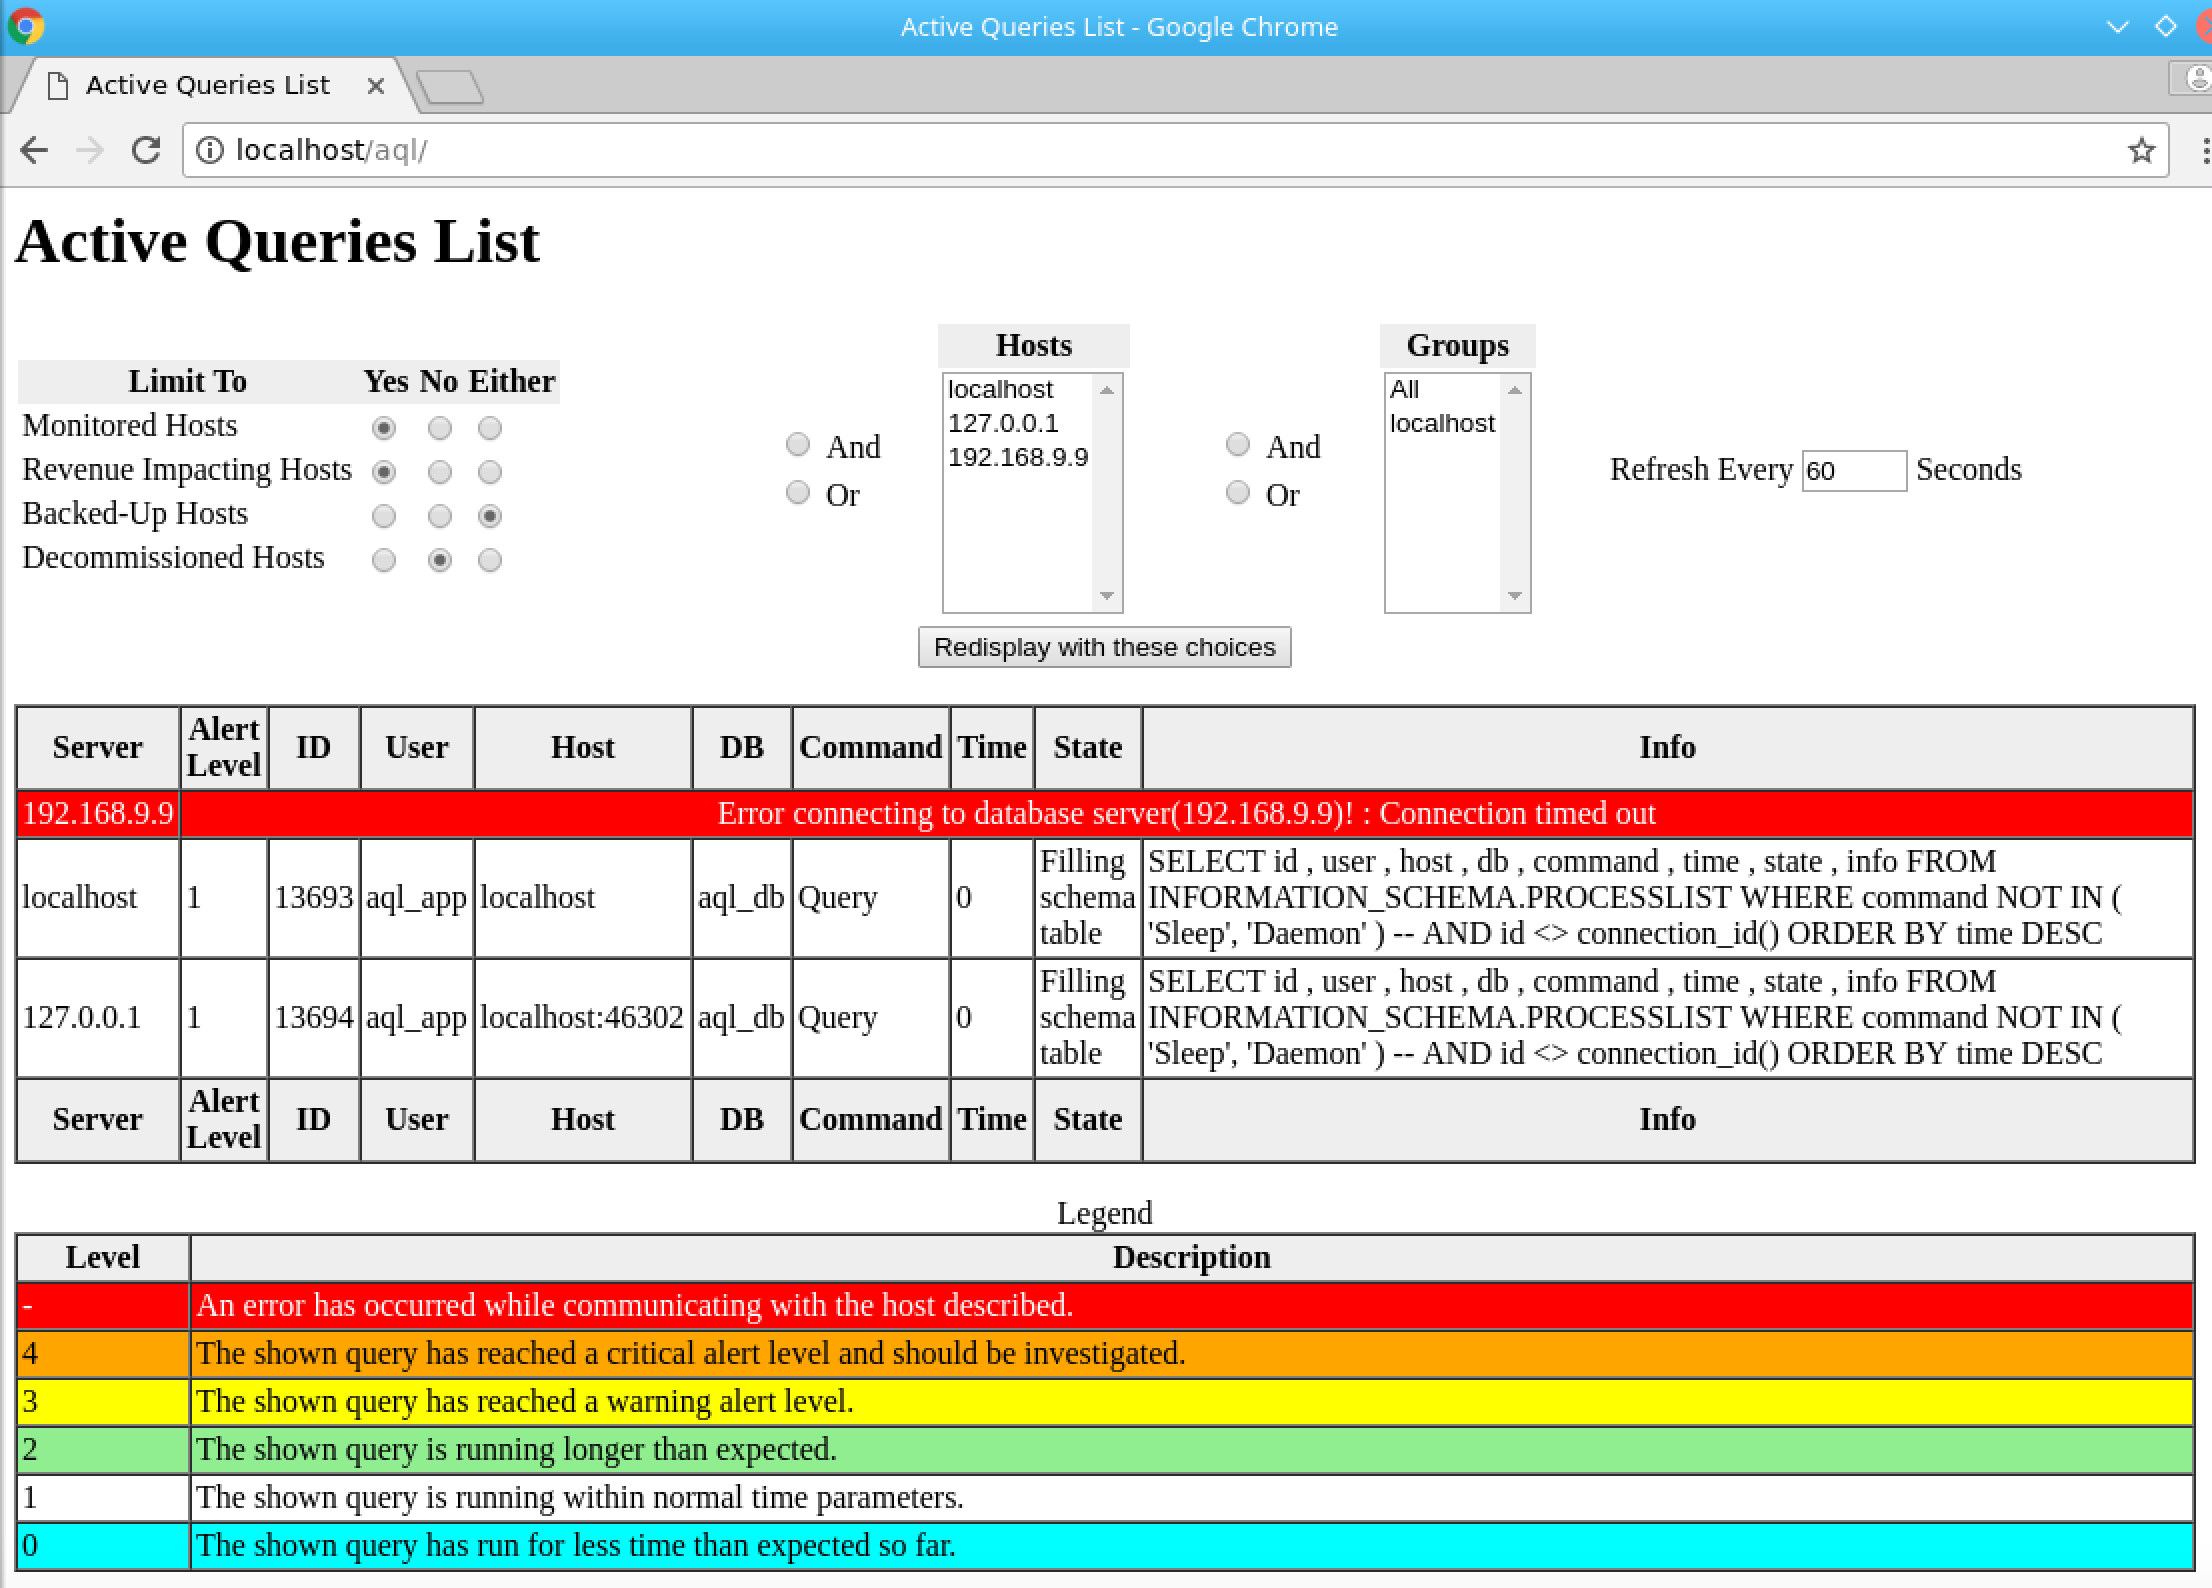
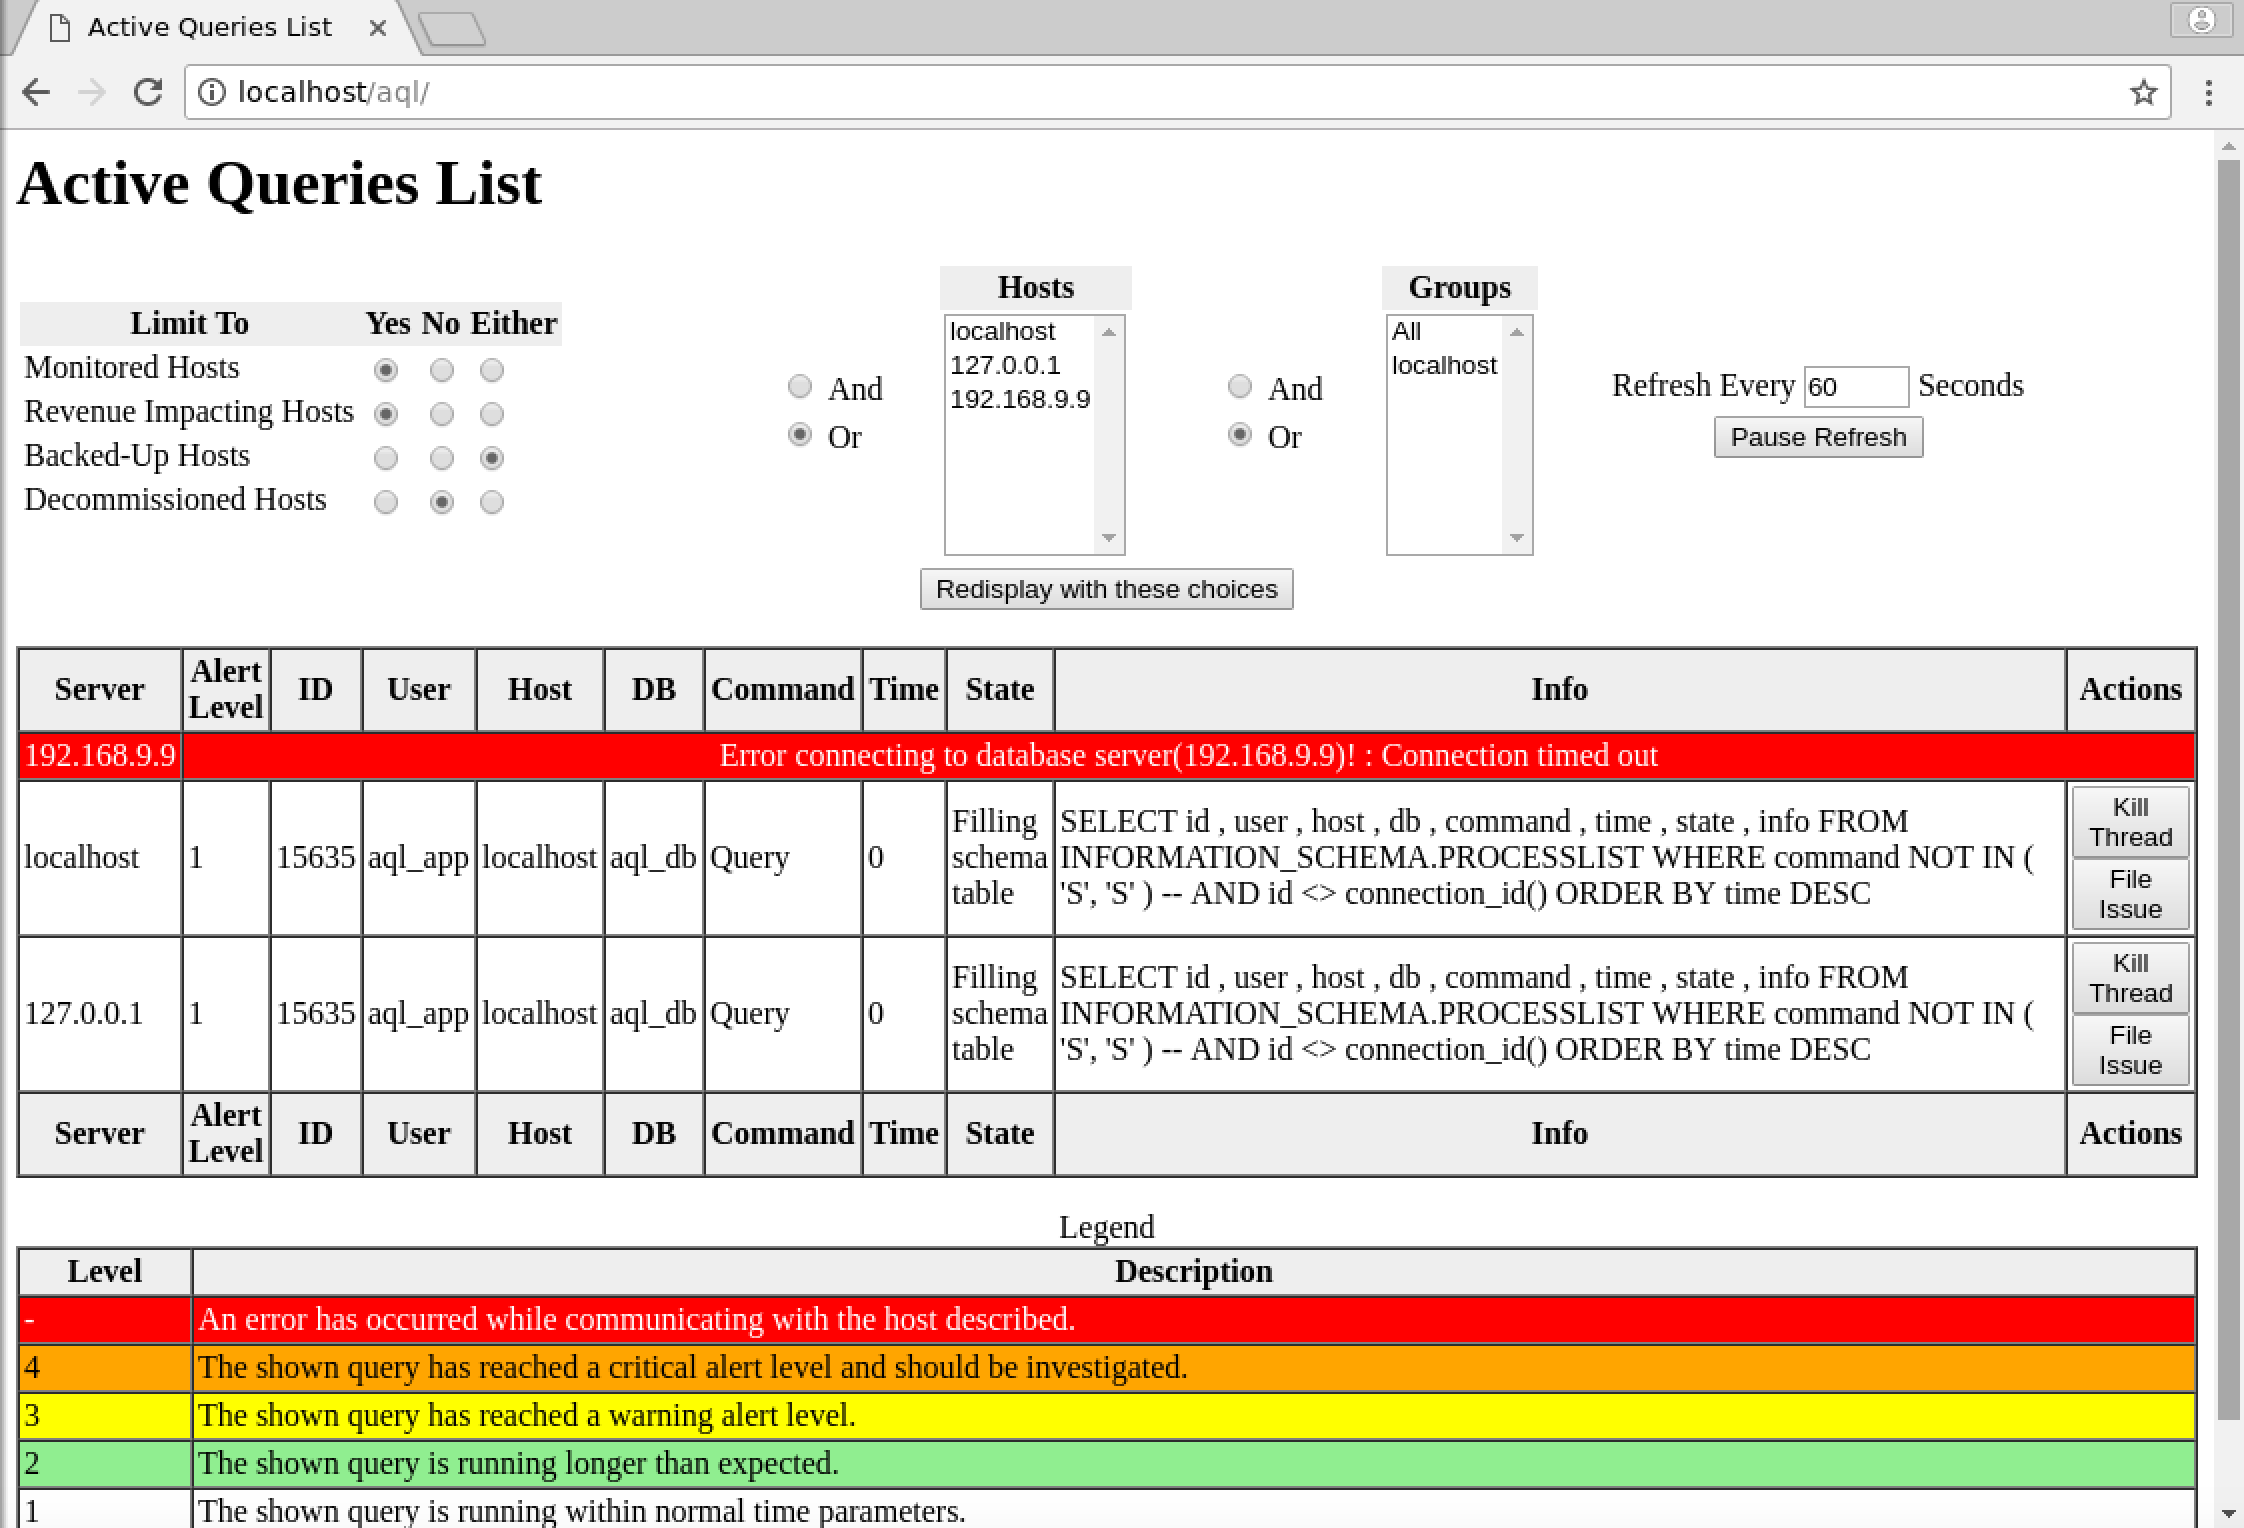
Intermediate check-in

diff --git a/Libs/Tools.php b/Libs/Tools.php
@@ -128,4 +128,99 @@ class Tools {
         }
         return date( 'Y-m-d H:i:s', $epochTime ) ;
     }
+
+    /**
+     *
+     * Return a time-like string of seconds, minutes:seconds or hours:minutes:se
+conds
+     *
+     * @param integer $in_seconds
+     *            @fixme Comparison to is_integer isn't working as expected.
+     */
+    public static function friendlyTime( $in_seconds ) {
+        if ( !isset( $in_seconds ) || ( is_integer( $in_seconds ) ) )
+            return $in_seconds ;
+        $secs = $in_seconds % 60 ;
+        if ( $in_seconds < 60 )
+            return "${secs}s" ;
+        $mins = ( $in_seconds / 60 ) % 60 ;
+        if ( $in_seconds < 3600 ) {
+            return sprintf( '%dm,%ds', $mins, $secs ) ;
+        }
+        $hrs = $in_seconds / 3600 ;
+        if ( $hrs < 24 ) {
+            return sprintf( '%dh,%dm,%ds', $hrs, $mins, $secs ) ;
+        }
+        else {
+            $days = $hrs / 24 ;
+            $hrs = $hrs % 24 ;
+            return sprintf( '%dd,%dh,%dm,%ds', $days, $hrs, $mins, $secs ) ;
+        }
+
+    } // END OF function friendlyTime( $in_seconds )
+
+    /**
+     *
+     * Change SQL constants (bare numbers and quoted strings) to a PII safe
+     * obscured string. Mimics functionality provided by mysqldumpslow but
+     * extends it by making it easier to figure out LIKE searches, treating
+     * all strings as a parameter to a LIKE clause.
+     *
+     * @param String $str
+     *            SQL Statement to be made safe
+     * @return String Obscured SQL statement
+     */
+    public static function makeQuotedStringPIISafe( $str ) {
+        $regexes = array (
+                        '/\b\d+\b/' => 'N',
+                        '/\b0x[0-9A-Fa-f]+\b/' => 'N',
+                        "/''/" => "'S'",
+                        '/""/' => '"S"',
+                        "/(\\\\')/" => '',
+                        '/(\\\\")/' => '',
+                        "/'[^%']+'/" => "'S'",
+                        '/"[^%"]+"/' => '"S"',
+                        "/'[%]+([^'%]+[%]+)+[^'%]+[%]+'/" => "'%S%S%'",
+                        "/'[%]+([^'%]+[%]+)+[^'%]+'/" => "'%S%S'",
+                        "/'([^'%]+[%]+)+[^'%]+[%]+'/" => "'S%S%'",
+                        "/'([^'%]+[%]+)+[^'%]+'/" => "'S%S'",
+                        "/'[%]+[^'%]+[%]+'/" => "'%S%'",
+                        "/'[%]+[^'%]+'/" => "'%S'",
+                        "/'[^'%]+[%]+'/" => "'S%'",
+                        "/'([^'%]+[%]+)+[^'%]+'/" => "'S%S'",
+                        '/"[^"%]+"/' => '"S"',
+                        '/"[%]+([^"%]+[%]+)+[^"%]+[%]+"/' => '"%S%S%"',
+                        '/"[%]+([^"%]+[%]+)+[^"%]+"/' => '"%S%S"',
+                        '/"([^"%]+[%]+)+[^"%]+[%]+"/' => '"S%S%"',
+                        '/"([^"%]+[%]+)+[^"%]+"/' => '"S%S"',
+                        '/"[%]+[^"[%]+]+[%]+"/' => '"%S%"',
+                        '/"[%]+[^"%]+"/' => '"%S"',
+                        '/"[^"%]+%"/' => '"S%"',
+                        '/"([^"%]+[%]+)+[^"%]+"/' => '"S%S"'
+        ) ;
+
+        $delimPattern = "/('[^']*'|\"[^\"]*\")/" ;
+        $result_array = preg_split( $delimPattern, $str, 0, PREG_SPLIT_DELIM_CAPTURE ) ;
+        $newStr = '' ;
+        while ( count( $result_array ) ) {
+            $currStr = array_shift( $result_array ) ;
+            $matchFound = 0 ;
+            foreach ( $regexes as $k => $v ) {
+                if ( !$matchFound ) {
+                    $oldStr = $currStr ;
+                    $currStr = preg_replace( $k, $v, $currStr, -1 ) ;
+                    if ( $currStr !== $oldStr ) {
+                        $matchFound = 1 ;
+                    }
+                }
+            }
+            $newStr .= $currStr ;
+        }
+        $str = $newStr ;
+        $str = preg_replace( '/(\s{4,})/', "\n$1", $str, -1 ) ;
+        return $str ;
+
+    } // END OF function makeQuotedStringPIISafe( $str )
+
 }
+

diff --git a/index.php b/index.php
@@ -144,6 +144,7 @@ $headerFooterRow = <<<HTML
       <th>Time</th>
       <th>State</th>
       <th>Info</th>
+      <th>Actions</th>
     </tr>
 
 HTML;
@@ -159,8 +160,8 @@ $choices = getChoices( 'Monitored Hosts'        , 'shouldMonitor'   , '1'   )
          . getChoices( 'Backed-Up Hosts'        , 'shouldBackup'    , 'any' )
          . getChoices( 'Decommissioned Hosts'   , 'decommissioned'  , '0'   )
          ;
-$andOr1And = $andOr2Or = 'checked="checked"' ;
-$andOr1Or = $andOr2And = null ;
+$andOr1Or = $andOr2Or = 'checked="checked"' ;
+$andOr1And = $andOr2And = null ;
 processAndOr( 'andOr1', 'and', $andOr1and ) ;
 processAndOr( 'andOr1', 'or' , $andOr1or  ) ;
 processAndOr( 'andOr2', 'and', $andOr2and ) ;
@@ -225,19 +226,20 @@ function myCallback( i, item ) {
                      + "</td><td>" + item['result'][0]['time']
                      + "</td><td>" + item['result'][0]['state']
                      + "</td><td>" + item['result'][0]['info']
+                     + "</td><td>" + item['result'][0]['actions']
                      + "</td></tr>") ;
         myRow.appendTo( "#tbodyid" ) ;
     }
     else if ( typeof item[ 'error_output' ] !== 'undefined' ) {
         var myRow = $("<tr class=\"error\"><td>" + item['hostname']
-                     + "</td><td colspan=\"9\"><center>" + item['error_output']
+                     + "</td><td colspan=\"10\"><center>" + item['error_output']
                      + "</center></td></tr>") ;
         myRow.prependTo( "#tbodyid" ) ;
     }
 }
 
 function loadPage() {
-    \$("#tbodyid").html( '<tr id="figment"><td colspan="10"><center>Data loading</center></td></tr>' ) ;
+    \$("#tbodyid").html( '<tr id="figment"><td colspan="11"><center>Data loading</center></td></tr>' ) ;
     \$.when($whenBlock).then(
         function ( $thenParamBlock ) {
             $thenCodeBlock
@@ -311,6 +313,10 @@ $choices
               <input type="text" size="5" width="5" value="$reloadSeconds" />
               Seconds
             </td>
+          </tr>
+          <td>
+            <center><button type="button">Pause Refresh</button></center>
+          </td>
           </tr>
         </table>
       </td>

diff --git a/AJAXgetaql.php b/AJAXgetaql.php
@@ -71,7 +71,8 @@ SQL;
         $outputItem[ 'db'      ] = $row[ 3 ] ;
         $outputItem[ 'command' ] = $row[ 4 ] ;
         $outputItem[ 'state'   ] = $row[ 6 ] ;
-        $outputItem[ 'info'    ] = $row[ 7 ] ;
+        $outputItem[ 'info'    ] = Tools::makeQuotedStringPIISafe( $row[ 7 ] ) ;
+        $outputItem[ 'actions' ] = "<button type=\"button\">Kill Thread</button> <button type=\"button\">File Issue</button>" ;
         $outputList[] = $outputItem ;
     }
 }

diff --git a/todo.php b/todo.php
@@ -35,5 +35,5 @@
 // @todo Display short strings, hide long strings.
 // @todo Add Kill button
 // @todo Add login capability to enable kill button as well as editing hosts/groups.
-
-
+// @todo Detect duplicate and similar queries per-host
+// @todo Detect queries that are blocked by other threads and display.
